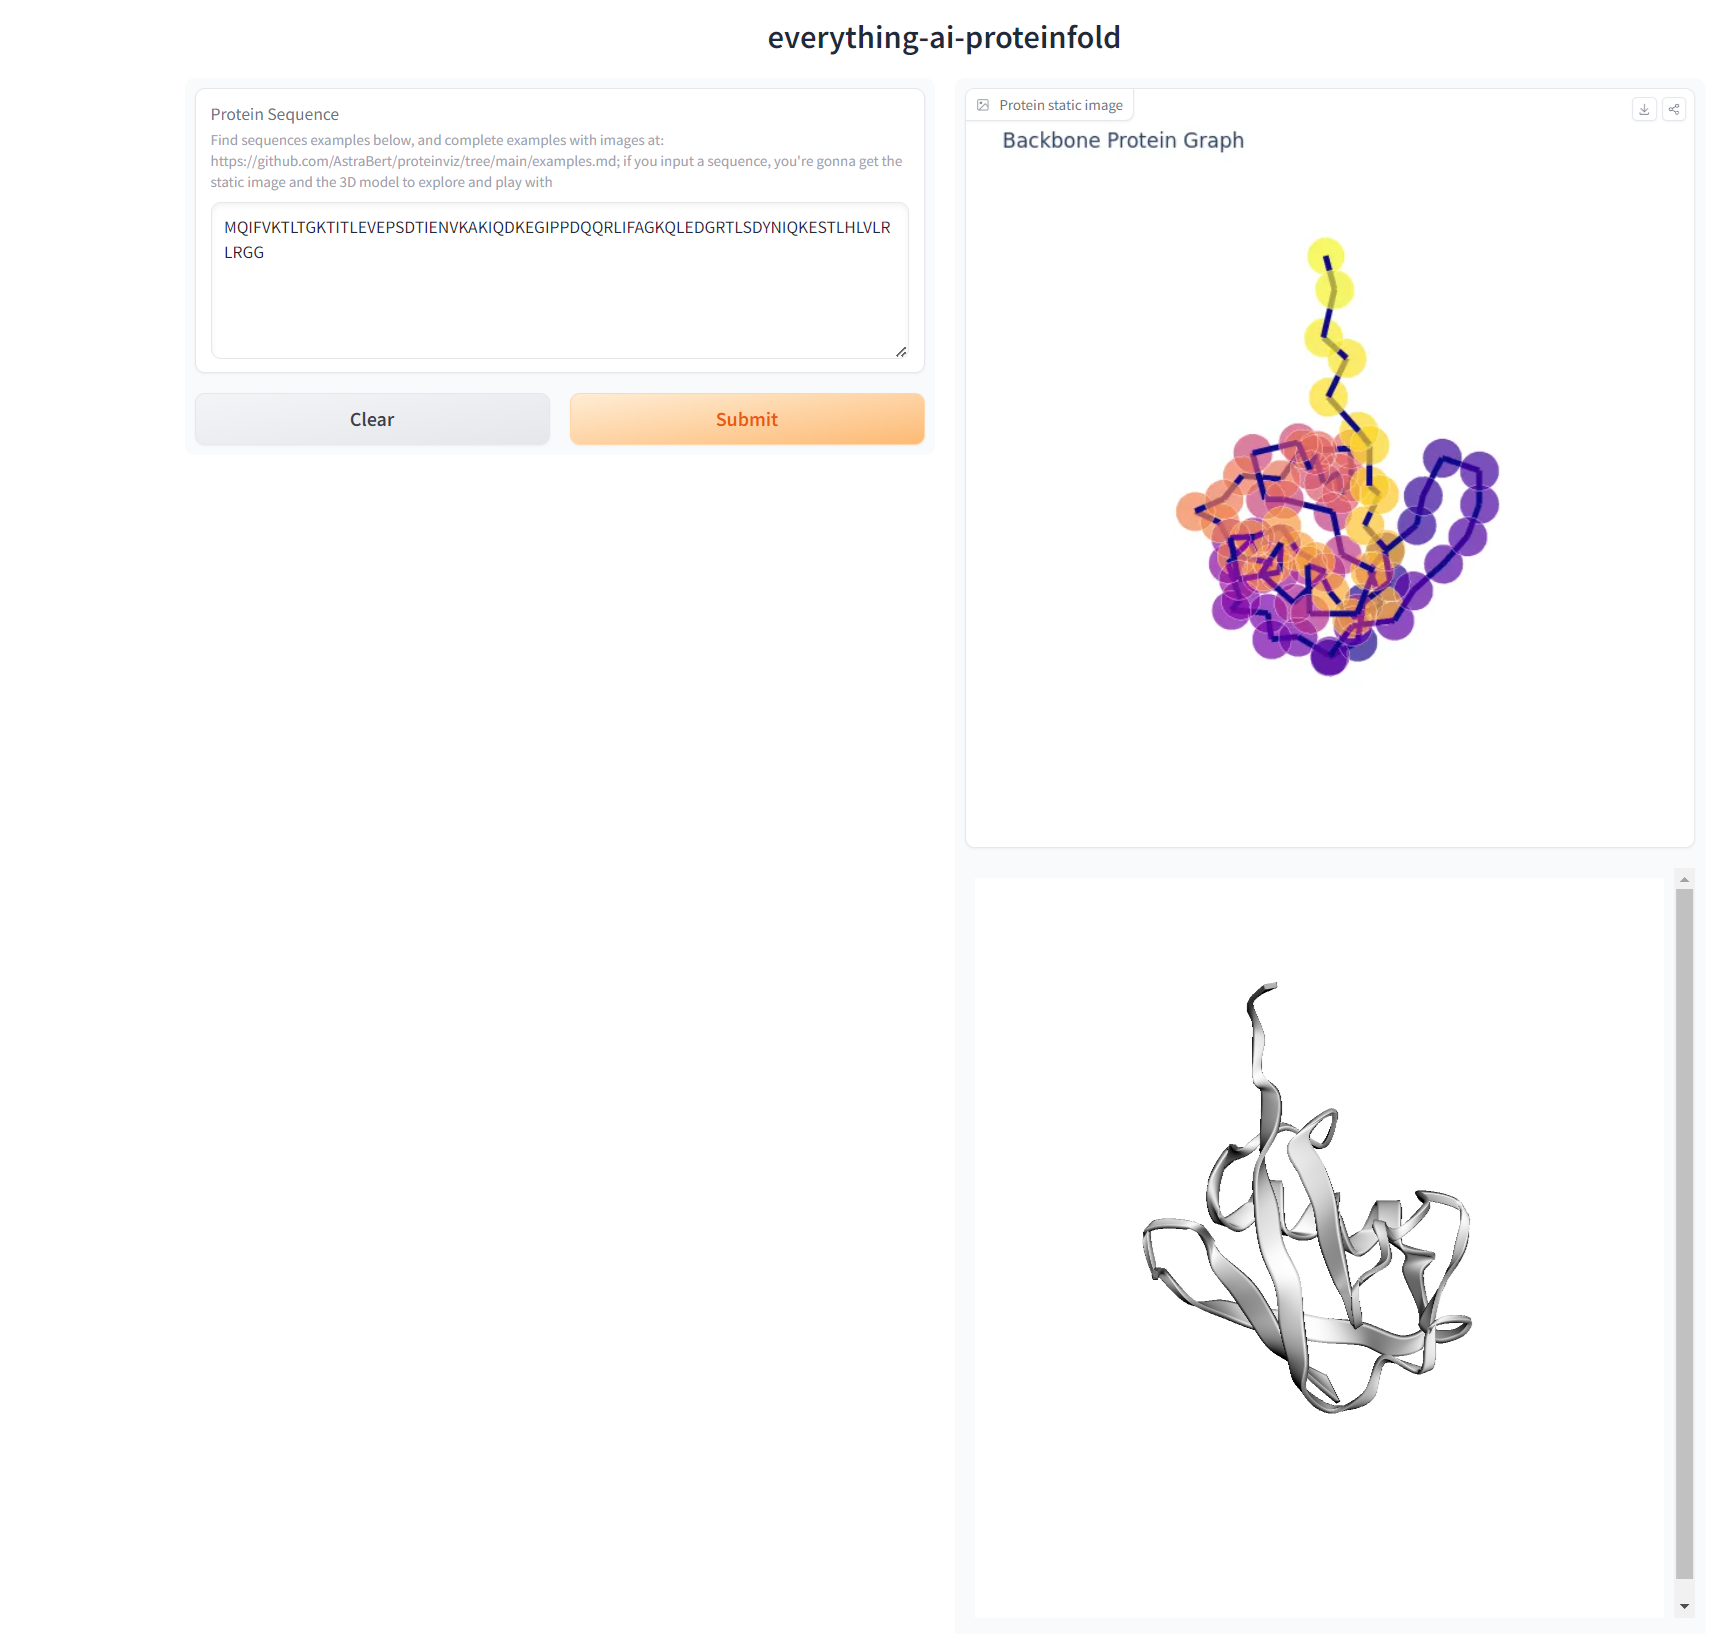
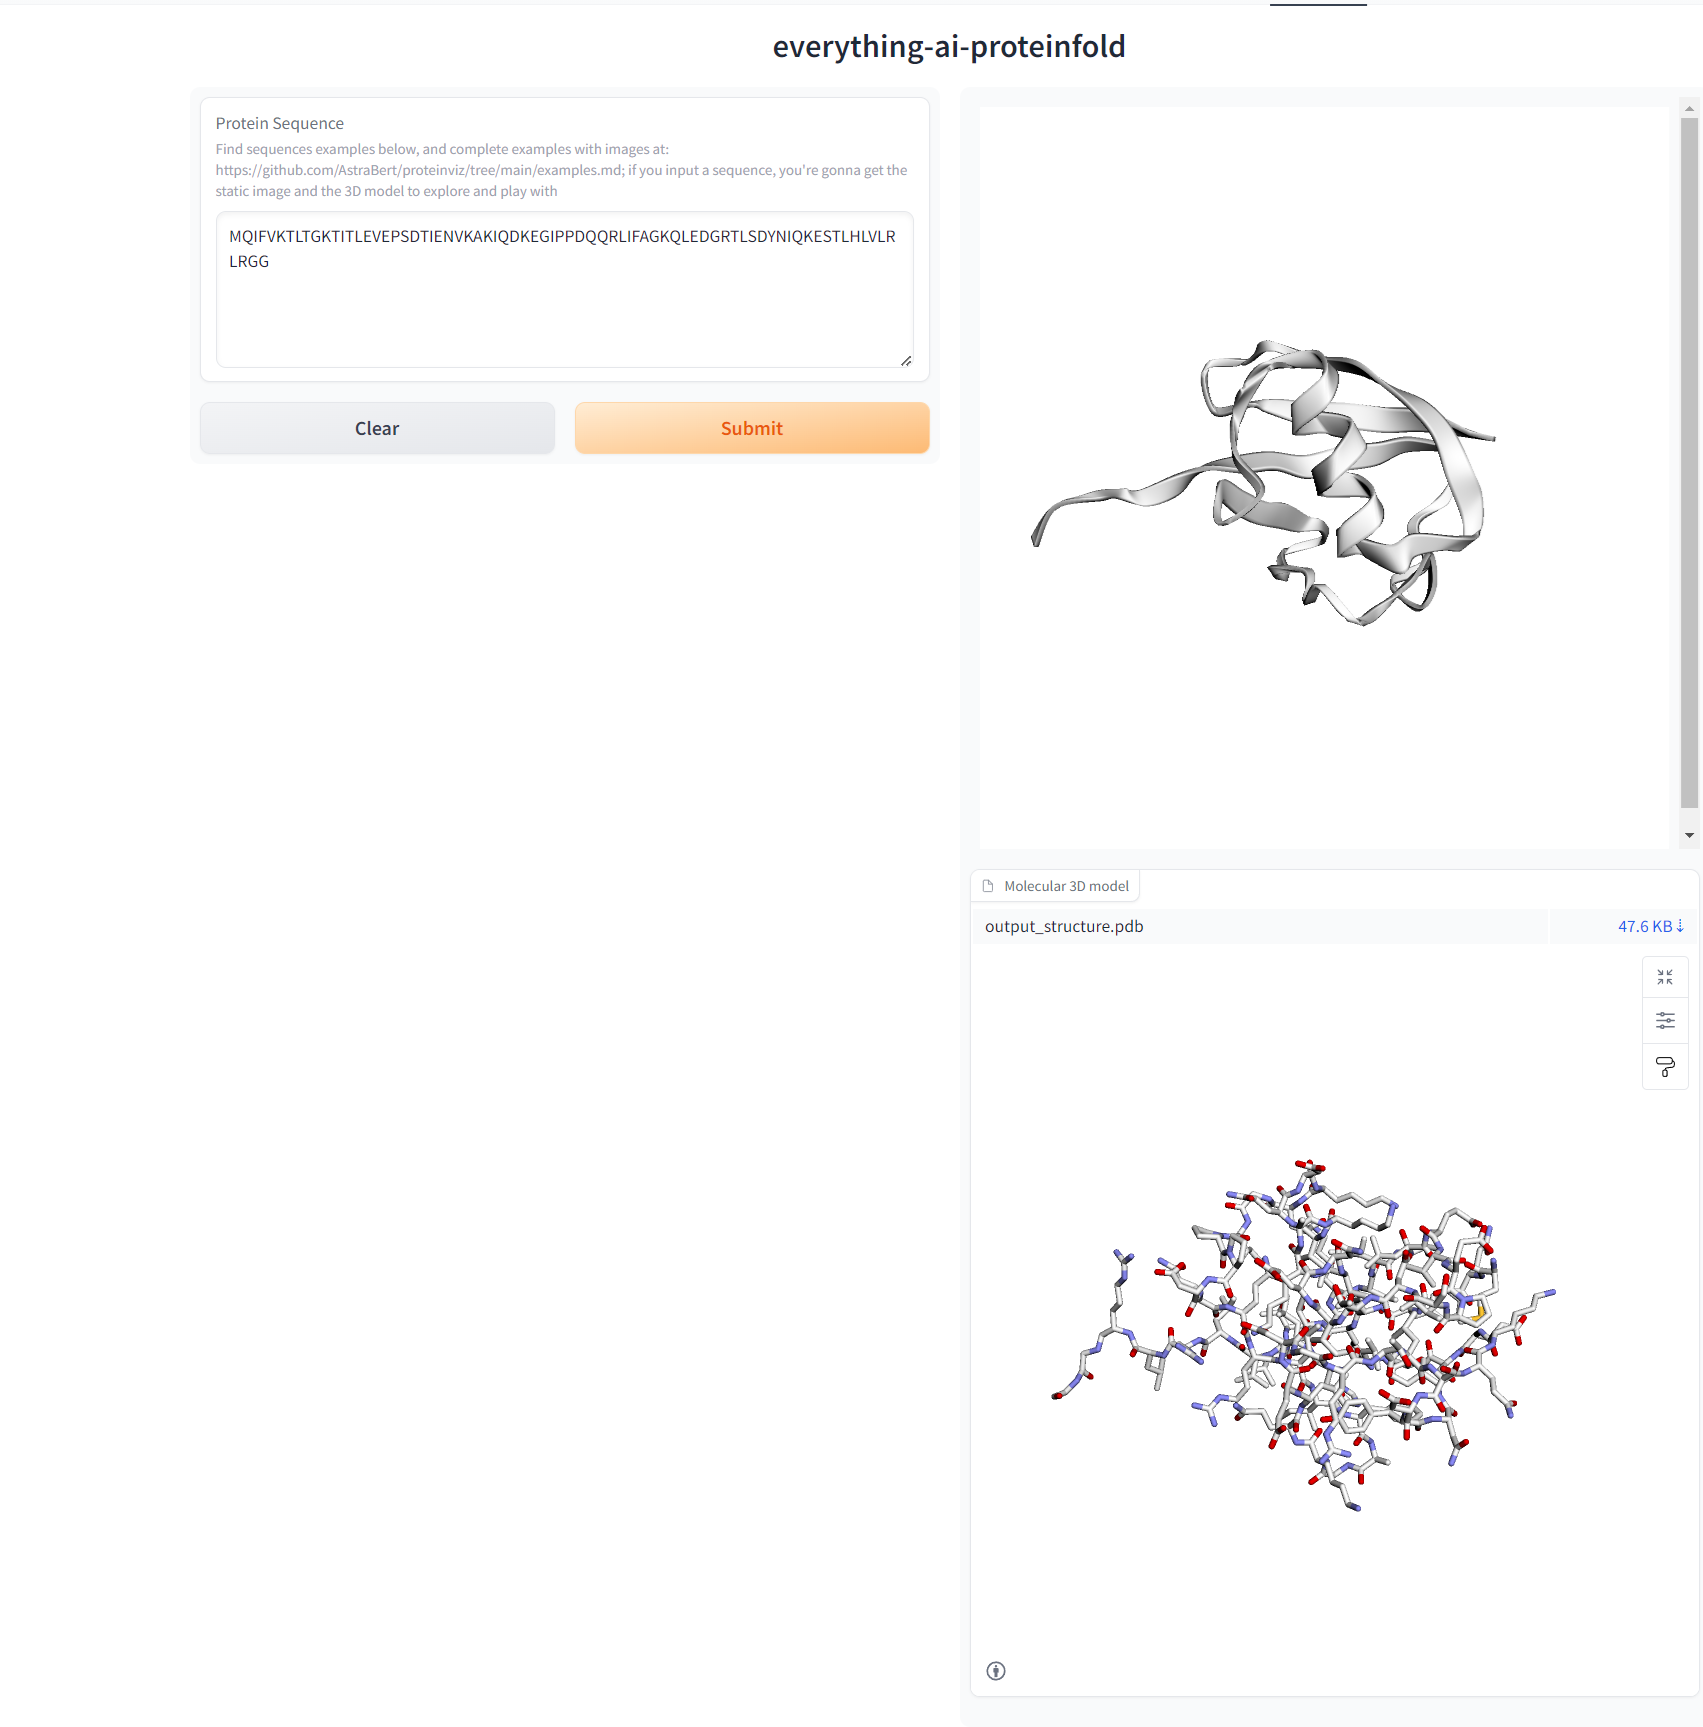
aminoacids

diff --git a/app.py b/app.py
@@ -1,8 +1,22 @@
 from transformers import AutoTokenizer, EsmForProteinFolding
 from transformers.models.esm.openfold_utils.protein import to_pdb, Protein as OFProtein
 from transformers.models.esm.openfold_utils.feats import atom14_to_atom37
-from proteins_viz import *
 import gradio as gr
+from gradio_molecule3d import Molecule3D
+
+reps =    [
+    {
+      "model": 0,
+      "chain": "",
+      "resname": "",
+      "style": "stick",
+      "color": "whiteCarbon",
+      "residue_range": "",
+      "around": 0,
+      "byres": False,
+      "visible": False
+    }
+]
 
 def read_mol(molpath):
     with open(molpath, "r") as fp:
@@ -110,9 +124,8 @@ def fold_protein(test_protein):
     pdb = convert_outputs_to_pdb(output)
     with open("output_structure.pdb", "w") as f:
         f.write("".join(pdb))
-    image = take_care("output_structure.pdb")
     html = molecule("output_structure.pdb")
-    return image, html
+    return html, "output_structure.pdb"
 
 iface = gr.Interface(
     title="everything-ai-proteinfold",
@@ -123,7 +136,7 @@ iface = gr.Interface(
             lines=5,
             value=f"Paste or write amino-acidic sequence here",
         ),
-    outputs=[gr.Image(label="Protein static image"), gr.HTML(label="Protein 3D model")], 
+    outputs=[gr.HTML(label="Protein 3D model"), Molecule3D(label="Molecular 3D model", reps=reps)], 
     examples=[
         "MVHLTPEEKSAVTALWGKVNVDEVGGEALGRLLVVYPWTQRFFESFGDLSTPDAVMGNPKVKAHGKKVLGAFSDGLAHLDNLKGTFATLSELHCDKLHVDPENFRLLGNVLVCVLAHHFGKEFTPPVQAAYQKVVAGVANALAHKYH",
         "MTEYKLVVVGAGGVGKSALTIQLIQNHFVDEYDPTIEDSYRKQVVIDGETCLLDILDTAGQEEYSAMRDQYMRTGEGFLCVFAINNTKSFEDIHQYREQIKRVKDSDDVPMVLVGNKCDLAARTVESRQAQDLARSYGIPYIETSAKTRQGVEDAFYTLVREIRQHKLRKLNPPDESGPGCMSCKCVLS",

diff --git a/README.md b/README.md
@@ -15,9 +15,7 @@ It does this by exploiting [facebook/esmfold_v1](https://huggingface.co/facebook
 
 The model predicts the positions of the amino-acids and its predictions get turned into a PDB file (Protein DataBase format). This file contains lots of stereochemical and positional metadata related to amino-acids and their atoms, instructing visualization servers on how the protein should be represented.
 
-The protein is then visualized through a complex interaction leveraging _biopandas_ (to read the PDB file), _plotly_ and _graphein_ to actually build the image (which is indeed a backbone structure representation) and _PIL_ to show it.
-
-Finally, the 3D representation of the molecule is written to an HTML object that gets displayed on your browser, directly.
+The protein is then visualized at an amino-acidic level thanks to [gradio_molecule3d](https://pypi.org/project/gradio-molecule3d/) component by [Simon Dürr](https://simonduerr.eu/). The tertiary structure 3D representation of the molecule is instead written to an HTML object that gets displayed on your browser, directly. Both these things are accomplished thanks to 3Dmol.js (more at [Citations](#citations))
 
 ![example_play](./imgs/example_play.gif)
 
